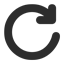
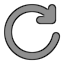
Dark mode support.

Changed region(s): [[0.0625, 0.0625, 0.9375, 0.9375]]

diff --git a/src/ui/ui.css b/src/ui/ui.css
@@ -4,41 +4,14 @@
  * SPDX-License-Identifier: GPL-3.0-or-later
  */
 
-
- :root {
-  --accent-color: #d00a25;
-  --form-check-color: white;
-  --form-control-color: var(--accent-color);
-  --form-control-disabled: #959495;
-}
+ @import url("./common.css");
 
 body {
-  font-family: sistem-ui, sans-serif;
-  font: -moz-use-system-font;
-  font-size: 12px;
-  min-width: 600px;
-  image-rendering: -webkit-optimize-contrast;
-}
-
-a, a:visited {
-  color: var(--accent-color);
+  min-width: 700px;
 }
 
 html.mobile > body {
-  font-family: Inter, sans-serif;
-  font-size: 4mm;
   min-width: auto;
-}
-
-html.mobile .desktop {
-  display: none !important;
-}
-
-html:not(.tor) .tor, html.tor .not-tor {
-  display: none;
-}
-html.tor .tor, html:not(.tor) .not-tor {
-  display: initial;
 }
 
 .opt-group {
@@ -103,7 +76,7 @@ html.tor .tor, html:not(.tor) .not-tor {
      z-index: 1000;
      top: 1em;
      left: 4em !important;
-     text-shadow: 1px 1px white, -1px -1px white;
+     text-shadow: 1px 1px var(--bg-color2), -1px -1px var(--bg-color2);
    }
 
    #sites .presets input.preset:checked + label {
@@ -144,7 +117,7 @@ html.tor .tor, html:not(.tor) .not-tor {
   td.presets {
     white-space: nowrap !important;
     vertical-align: bottom;
-    border: 1px solid black;
+    border: 1px solid var(--fg-color2);
   }
   .url > span > span {
     white-space: wrap;
@@ -170,6 +143,7 @@ html.tor .tor, html:not(.tor) .not-tor {
 
 .capsContext select {
   display: none;
+  margin: 0 1em;
 }
 
 .contextual .capsContext select {
@@ -180,7 +154,7 @@ html.tor .tor, html:not(.tor) .not-tor {
   position: absolute;
   outline: 3px solid #888;
   z-index: 1000;
-  background-color: white;
+  background-color: var(--bg-color2);
   transform-origin: bottom center;
   transition: transform .5s;
 }
@@ -203,7 +177,6 @@ input[type="checkbox"] {
 }
 .sites {
   border: 0;
-  background: white;
   border-collapse: collapse;
   border-spacing: 0;
   width: 100%;
@@ -218,14 +191,14 @@ input[type="checkbox"] {
 }
 
 html:not(.mobile) .sites > tr.site:focus-within {
-  background: #ccc;
+  box-shadow: 0 0 2px 2px var(--focus-color);
 }
-.sites > tr:nth-child(even) {background: #fff}
-.sites > tr:nth-child(odd) {background: #eee}
+.sites > tr:nth-child(even) { background: var(--form-color1) }
+.sites > tr:nth-child(odd) { background: var(--bg-color2) }
 
 .site .url {
     padding: 0 0 0 0.5em;
-    color: #000;
+    color: var(--fg-color2);
     vertical-align: top;
     width: 80%;
 }
@@ -244,13 +217,13 @@ html:not(.mobile) .sites > tr.site:focus-within {
 .site .url[data-key="host"] .domain,
 .site .url[data-key="host"] .sub,
 .site .url[data-key="unsafe"] span {
-  color: #a00;
+  color: var(--accent-color);
 }
 
 .site .url[data-key="secure"] .domain,
 .site .url[data-key="secure"] .sub,
 .site .url[data-key="full"] span {
-  color: black;
+  color: var(--fg-color2)
 }
 
 .site .url[data-key="full"] span,
@@ -284,7 +257,7 @@ label.https-only {
 }
 
 .preset label.preset.override {
-  color: #555;
+  color: var(--text-color);
 }
 
 [data-preset="UNTRUSTED"] .https-only, [data-preset="DEFAULT"] .https-only {
@@ -313,7 +286,7 @@ span.preset {
   appearance: none;
   -webkit-appearance: none;
   -moz-appearance: none;
-  background: url(/img/ui-no64.png) no-repeat center left;
+  background: url(/img/ui-no64.png) no-repeat center;
   background-size: 1.8em;
   width: 2em;
   height: 2em;
@@ -340,8 +313,9 @@ span.preset {
   opacity: 1;
   transform: none;
   min-width: 9.38em;
-  background-color: #ddd;
-  border-radius: 1em;
+  background-color: var(--bg-color1);
+  background-position-x: .1em;
+  border-radius: .5em;
 }
 
 .presets input.preset:focus {
@@ -359,7 +333,7 @@ span.preset {
   overflow: hidden;
   display: none;
   text-transform: uppercase;
-  color: #000;
+  color: var(--fg-color2);
   opacity: .6;
   position: absolute;
   left: 0em;
@@ -385,21 +359,12 @@ span.preset {
 }
 
 :focus-visible, .cap:focus-within {
-  --focus-color: #faa7;
   outline: 0;
   filter:
     drop-shadow(2px 2px 2px var(--focus-color))
     drop-shadow(-2px 2px 2px var(--focus-color))
     drop-shadow(2px -2px 2px var(--focus-color))
     drop-shadow(-2px -2px 2px var(--focus-color));
-}
-
-:disabled {
-  cursor: not-allowed !important;
-}
-
-input.preset:disabled {
-  filter: grayscale(100%);
 }
 
 input.preset[value="T_TRUSTED"] {
@@ -457,17 +422,17 @@ input.preset:checked ~ input.temp {
 }
 
 #presets input.preset:not(:checked) {
-  background-color: #ccc;
+  background-color: var(--form-color1);
 }
 
 .customizing input.preset:checked, #presets input.preset:checked {
-  background-color: #eee;
+  background-color: var(--form-color2);
 }
 
 .customizer fieldset {
-  background-color: #eee;
+  background-color: var(--form-color2);
   margin: 0 0.06em 0.06em 0.06em;
-  box-shadow: #ccc 0 2px 2px;
+  box-shadow: var(--form-color1) 0 2px 2px;
   position: relative;
 }
 
@@ -481,11 +446,7 @@ input.preset:checked ~ input.temp {
 }
 
 .customizing, .customizer {
-  background-color: #ccc !important;
-}
-
-#presets .customizing, #presets .customizer {
-  background-color: #ddd !important;
+  background-color: var(--form-color1) !important;
 }
 
 #presets legend select, #presets legend button {
@@ -518,7 +479,7 @@ span.cap {
 
 span.cap.needed {
   font-weight: bold;
-  background-color: #c88;
+  background-color: var(--hilite-color);
 }
 
 fieldset {
@@ -571,7 +532,7 @@ legend {
 }
 
 #xssChoices option {
-  background: white;
+  background: var(--bg-color2);
 }
 
 #xssChoices option.block {
@@ -579,44 +540,5 @@ legend {
 }
 
 #xssChoices option.allow {
-  color: #222;
-}
-
-input[type="checkbox"]:not(.https-only, .temp) {
-  -webkit-appearance: none;
-  appearance: none;
-  margin: .4em;
-  font: inherit;
-  color: currentColor;
-  width: 1.2em;
-  height: 1.2em;
-  border: 0.15em solid currentColor;
-  border-radius: 0.2em;
-  transform: translateY(-0.075em);
-  display: grid;
-  place-content: center;
-  background-color: var(--form-check-color);
-}
-
-input[type="checkbox"]:not(.https-only, .temp)::before {
-  content: "";
-  width: 0.65em;
-  height: 0.65em;
-  clip-path: polygon(14% 44%, 0 65%, 50% 100%, 100% 16%, 80% 0%, 43% 62%);
-  transform: scale(0);
-  transform-origin: bottom left;
-  transition: 120ms transform ease-in-out;
-  box-shadow: inset 1em 1em var(--form-check-color);
-
-}
-input[type="checkbox"]:not(.https-only, .temp):checked::before {
-  transform: scale(1);
-}
-input[type="checkbox"]:not(.https-only, .temp):checked {
-  background-color: var(--form-control-color);
-  border-color: var(--form-control-color);
-}
-input[type="checkbox"]:disabled {
-  --form-control-color: var(--form-control-disabled);
-  color: var(--form-control-disabled);
+  color: var(--text-color);
 }

diff --git a/src/ui/options.css b/src/ui/options.css
@@ -6,7 +6,7 @@
 
 /* @import url("chrome://browser/content/extension.css"); */
 body {
-  background: #eee url("/img/noscript-options.png") no-repeat fixed top right;
+  background: url("/img/noscript-options.png") no-repeat fixed top right;
   background-size: 8em;
   padding: 0 2em 0 0;
   margin: 0.5em 0.5em 0.5em 0.5em;
@@ -25,15 +25,15 @@ body {
   text-align: right;
 }
 #header h1 {
-  color: #d12027;
-  text-shadow: 0.06em 0.06em 0.06em rgba(0,0,0,.5);
+  color: var(--accent-color);
+  text-shadow: 0.06em 0.06em 0.06em #0008;
   font-size: 2em;
   padding: 0;
   margin: 0;
   text-align: right;
 }
 #version {
-  color: #444;
+  color: var(--text-color);
   font-size: 0.75em;
   padding: 0;
   margin: 0 0 0.5em;
@@ -163,15 +163,15 @@ button.add {
 }
 
 .flextabs__content, .flextabs__toggle[aria-expanded="true"] {
-  background-color: rgba(200, 200, 200, .5) !important;
-  border: 0 solid #888;
+  background-color: var(--tab-color2) !important;
+  border: 0 solid var(--fg--color1);
 }
 
 .flextabs__toggle {
   -moz-appearance: none;
   border-width: 0 !important;
   margin: 0 4px 0 0;
-  background: #ccc;
+  background-color: var(--tab-color1);
   outline-width: 0 !important;
   border-radius: 1em 1em 0 0;
   padding: .4em .8em;
@@ -198,4 +198,8 @@ button.add {
 
 .mozwebext #xss-options {
   display: block;
+}
+
+#presets .sites > .site.customizing {
+	background: transparent !important;
 }

diff --git a/src/ui/prompt.css b/src/ui/prompt.css
@@ -4,17 +4,20 @@
  * SPDX-License-Identifier: GPL-3.0-or-later
  */
 
+
+@import url("./common.css");
+
+
 html {
-  background: linear-gradient(to bottom, #f7f7f7 0%,#ccc 41%,#aaa 90%,#a88 100%) no-repeat;
+  background: linear-gradient(to bottom, var(--form-color1) 0, var(--bg-color2) 41%, var(--bg-color1) 90%, var(--focus-color) 100%) no-repeat;
+  background-color: var(--bg-color1);
 }
 
 body {
   bottom: .8em;
-  font-family: sans-serif;
-  font-size: 12px;
-  color: #222;
   margin: 0px;
   padding: .8em;
+  background-color: transparent;
 }
 
 html.mobile > body {
@@ -29,7 +32,7 @@ html.mobile > body {
   text-align: left;
   margin: 0;
   line-height: 2em;
-  color: #d12027;
+  color: var(--accent-color);
   z-index: 500;
   padding: .8em .8em 0 .8em;
   display: block;
@@ -69,7 +72,7 @@ html.mobile > body {
   font-size: 1em;
   text-align: justify;
   margin-bottom: 1.2em;
-  background: rgba(255,255,255,.5);
+  background: var(--focus-color);
 }
 #message.multiline p {
   margin: .1em;
